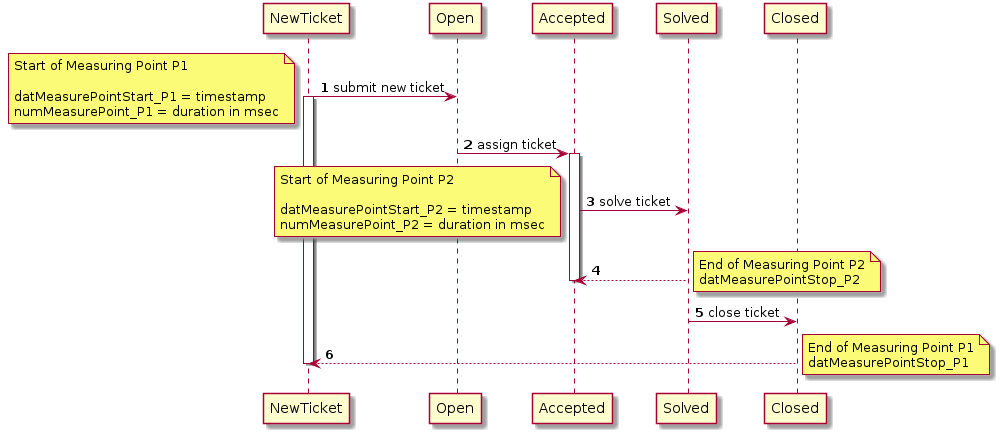
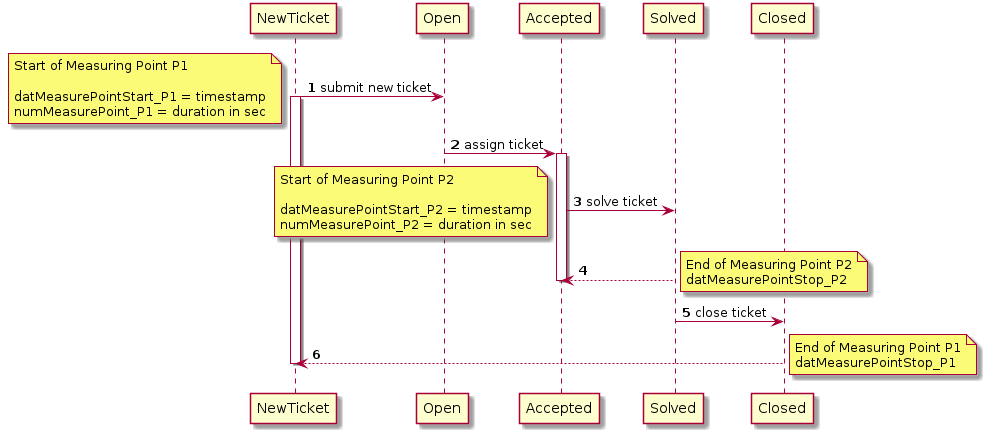
docu update analyse plugin

diff --git a/src/site/markdown/engine/plugins/analysisplugin.md b/src/site/markdown/engine/plugins/analysisplugin.md
@@ -22,7 +22,7 @@ The result of a measuring point will be stored in the following workitem propert
 
   * datMeasurePointStart_[NAME] : contains the start time points (lists latest entry on top!)
   * datMeasurePointEnd_[NAME] : contains the end time points (list)
-  * numMeasurePoint_[NAME]: contains the total time in msec
+  * numMeasurePoint_[NAME]: contains the total time in seconds
 
 The [NAME] suffix will be replaced with the name of the measuring point. It is possible  
  to define several measuring points in one process model.
@@ -33,7 +33,7 @@ The following diagram illustrates two measuring points in the ticket-workflow:
 <img src="../../images/analysisplugin.png"/>  
 
 
-The first measuring point 'P1' will measure the total processing time for a ticket. The second measuring point 'P2' will measure the duration of the processing time for the solving.
+The first measuring point 'P1' will measure the total processing time for a ticket. The second measuring point 'P2' will measure the duration of the processing time (in seconds) for the solving.
 
 
 All measuring points will be also logged into the txtWorkflowActivityLog in the comment section.
